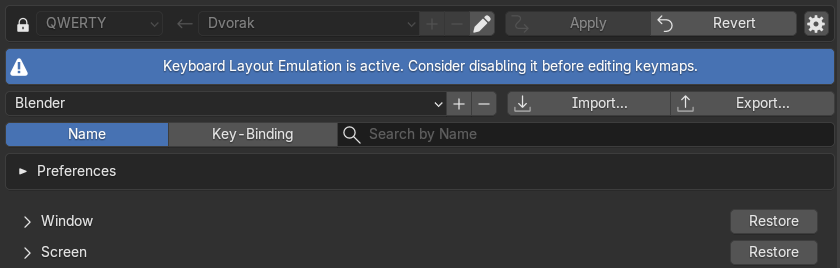
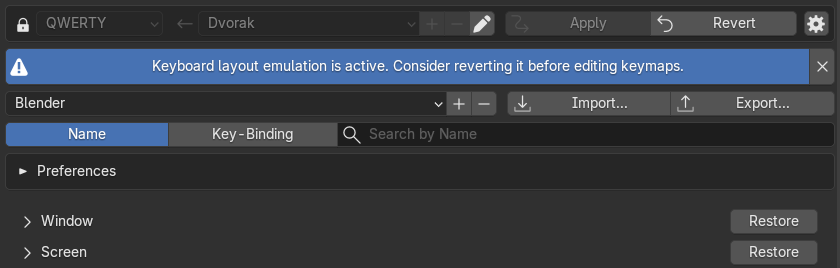
Add README file
- Update warning-button.png

Changed region(s): [[0.1548, 0.209, 0.8357, 0.2985], [0.9595, 0.1791, 1.0, 0.3284]]

diff --git a/README.md b/README.md
@@ -1,0 +1,34 @@
+## Keyboard Layout Emulation – an extension for Blender
+
+> [!TIP]
+> You are in the `docs` branch, which contains the editable sources of the user manual for this extension.
+> You may want to:
+> - Read the [user manual](https://endorh.github.io/blender-keyboard-layout-emulation/)
+> - Go to the [main](https://github.com/endorh/blender-keyboard-layout-emulation) branch for source code
+
+This Blender extension automatically reassigns all keyboard shortcuts to emulate a QWERTY
+keyboard layout on a user-specified non-QWERTY keyboard layout, allowing users to type
+QWERTY keyboard shortcuts while typing text in their preferred keyboard layout.
+
+This allows users to benefit from the default keyboard shortcuts without changing their
+keyboard layout for typing text/using shortcuts, making use of the design effort already
+spent by others in designing the default keyboard shortcuts.
+
+The default keyboard shortcuts include well over a thousand keyboard shortcuts involving
+remappable keyboard keys. Tailoring all keyboard shortcuts to a different keyboard layout
+in a way that is convenient for one-hand typing and with good mnemonics in the
+corresponding layout is not a task everyone can afford.
+
+### Building the manual
+The docs in this branch are built using [mkdocs](https://www.mkdocs.org).
+
+To build them locally:
+1. Install `mkdocs`: `pip install mkdocs`
+2. Run `python -m mkdocs build` from the root of the repository.
+   Refer to its [documentation](https://www.mkdocs.org/user-guide/cli/#mkdocs-build) for more options.
+
+The docs are built automatically on every push to the `docs` branch, and deployed to GitHub Pages
+([here](https://endorh.github.io/blender-keyboard-layout-emulation/)).
+This is achieved by the
+[build-docs](https://github.com/endorh/blender-keyboard-layout-emulation/edit/docs/.github/workflows/build-docs.yml)
+workflow.
